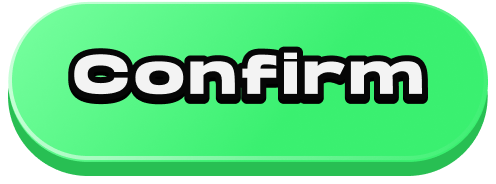
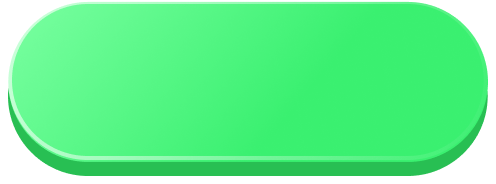
update

Changed region(s): [[0.121, 0.2446, 0.877, 0.5707]]

diff --git a/src/components/swap/confirm-button.tsx b/src/components/swap/confirm-button.tsx
@@ -41,16 +41,9 @@ const EvmConfirmButton = ({
     if (isConnected) {
         if (isEvmNetworkCorrect) {
             return (
-                //{"Confirm"}
                 <Button
                     variant="transparent"
-                    style={{
-                        backgroundColor: "transparent",
-                        backgroundImage:`url(/images/swap/confirm.png)`,
-                        backgroundSize: 'cover',
-                        backgroundRepeat: 'no-repeat',
-                        backgroundPosition: 'center'
-                    }}
+                    className={styles.confirm_btn}
                     onClick={onSubmit}
                     disabled={disabled || !selectedRoute || selectedRoute === "empty"
                         || (selectedRoute?.dstChain?.chainId == '56' && to?.token?.id == 12264)}
@@ -58,24 +51,21 @@ const EvmConfirmButton = ({
                     fz={18}
                     w={120}
                 >
+                    {"Confirm"}
                 </Button>
             );
         } else {
             return (
                 //Switch Network
                 <Button
-                    style={{
-                        backgroundColor: "transparent",
-                        backgroundImage:`url(/images/swap/confirm.png)`,
-                        backgroundSize: 'cover',
-                        backgroundRepeat: 'no-repeat',
-                        backgroundPosition: 'center'
-                    }}
+                    className={styles.confirm_btn}
+                    variant="transparent"
                     disabled={disabled}
                     onClick={handleSwitchNetwork}
                     h={"44px"}
-                    w={"120px"}
+                    w={"160px"}
                 >
+                    {"Switch Network"}
                 </Button>
             );
         }

diff --git a/src/components/swap/scss/swap.module.scss b/src/components/swap/scss/swap.module.scss
@@ -2,7 +2,6 @@
   //background-image: url("/images/swap/btn_switch_network_bg.png");
   background-image: url("/images/swap/confirm.png");
   background-size: 100% 100%;
-  background-color: #3BF873;
   color: #F3F3F3;
 
   text-align: center;
@@ -15,3 +14,14 @@
   line-height: 14px; /* 100% */
   letter-spacing: 1.12px;
 }
+
+//
+//style={{
+//  backgroundColor: "transparent",
+//  backgroundImage:`url(/images/swap/confirm.png)`,
+//  backgroundSize: 'cover',
+//  backgroundRepeat: 'no-repeat',
+//  backgroundPosition: 'center',
+//  textShadow:"0px 1px 0px #000",
+//  color:"#fff"
+//}}
